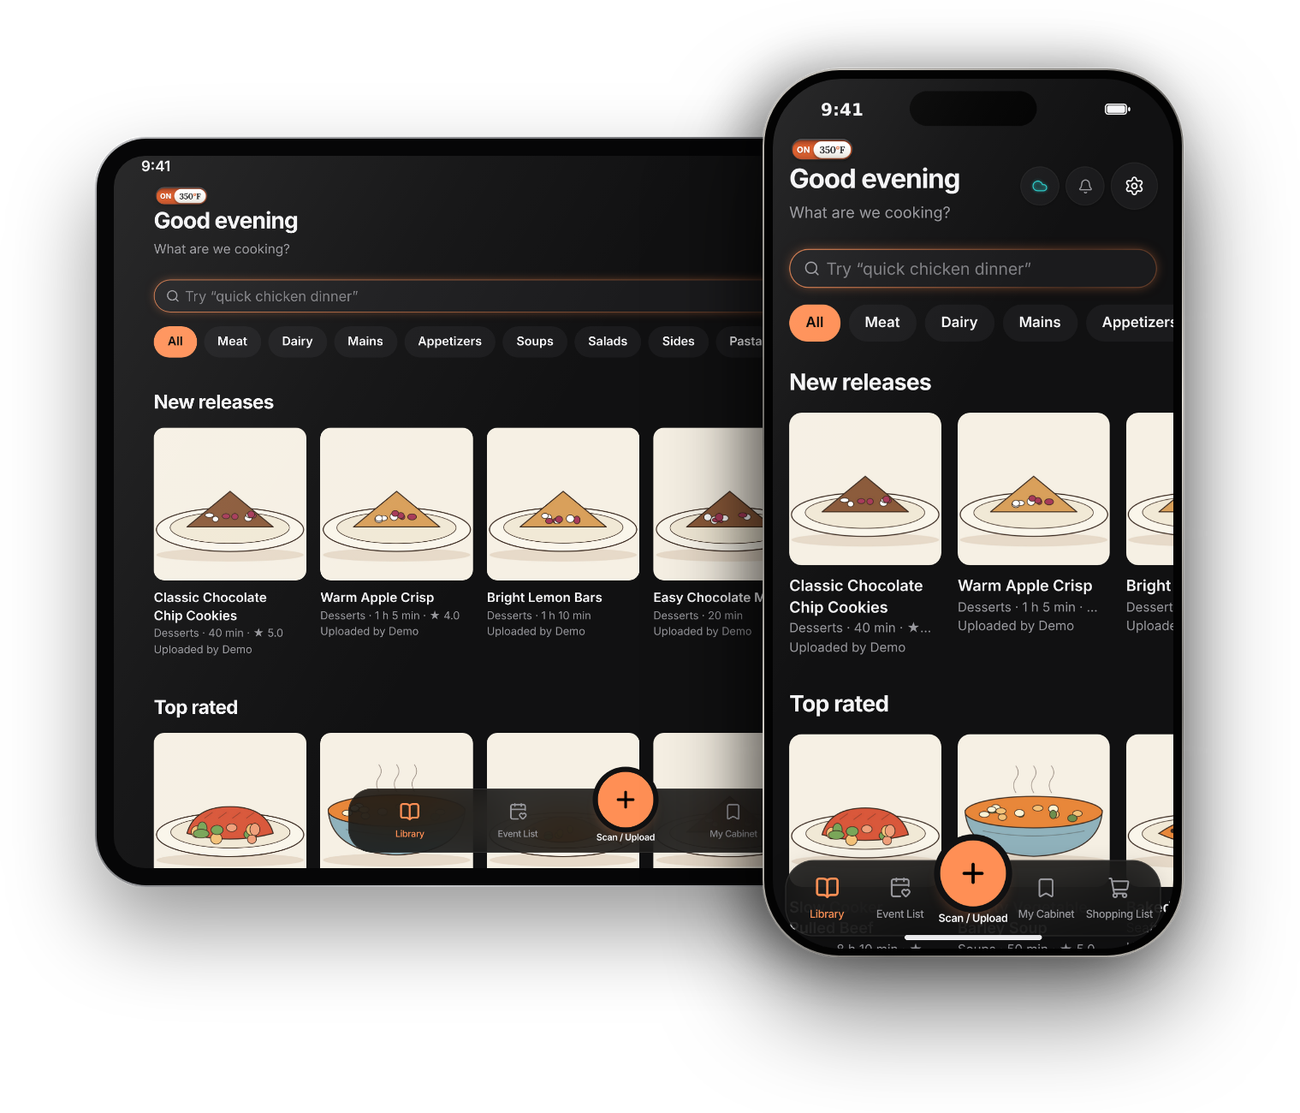
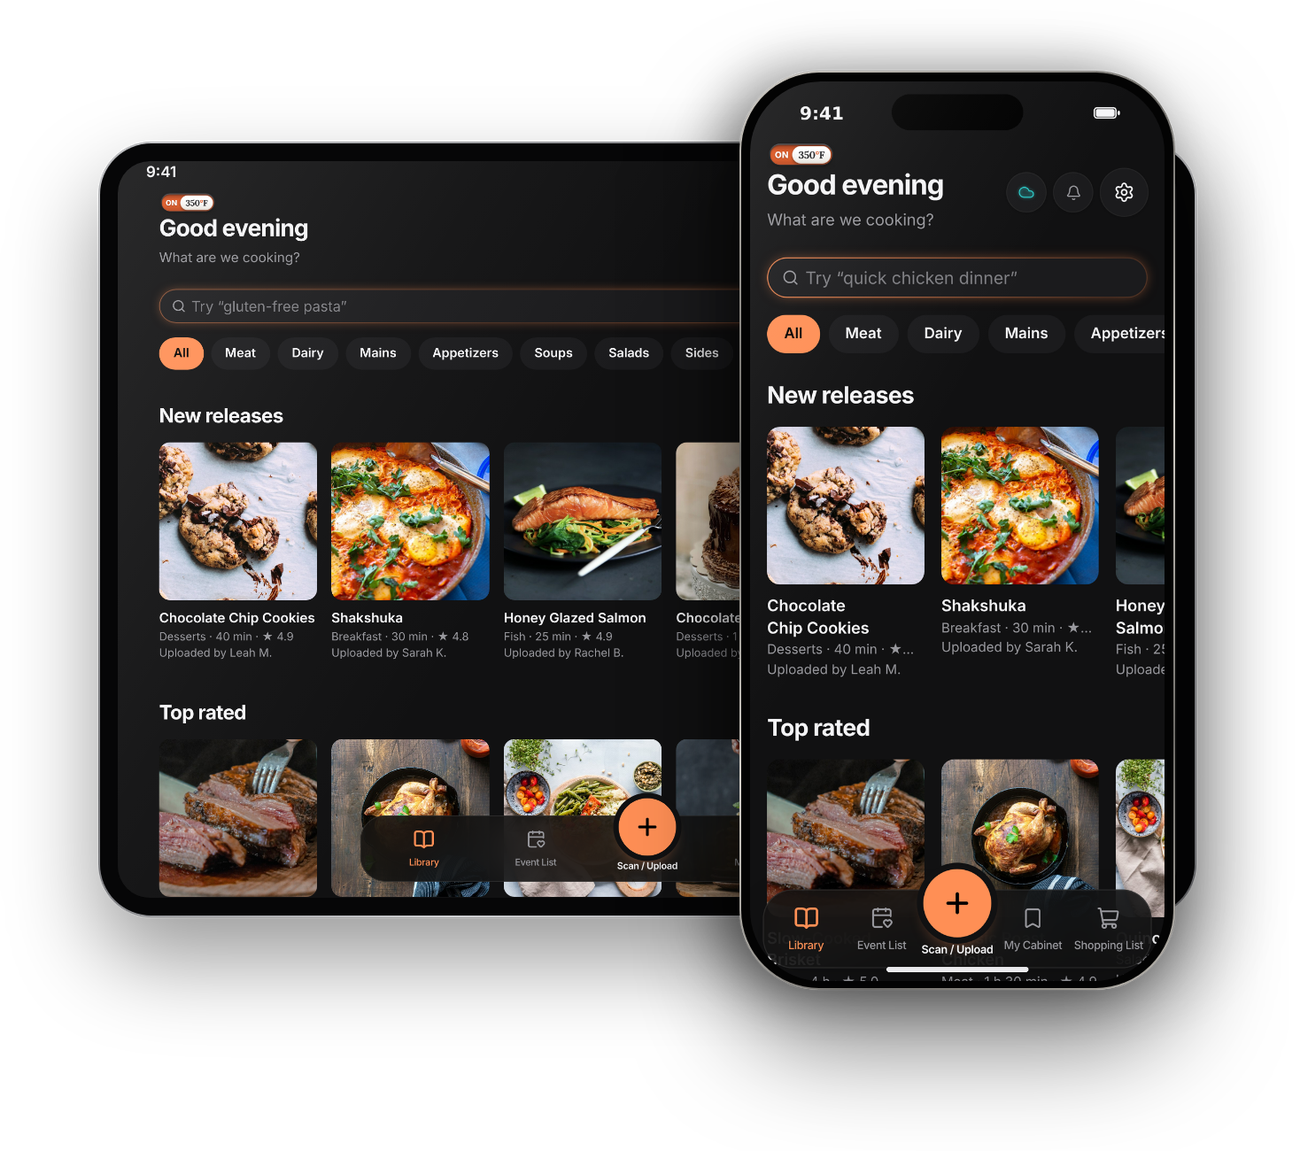
Website picture: real food photos, phone further over the iPad, pair moved right, faint orange glow (#114)
Food photos from Unsplash (free to use under the Unsplash licence, no credit required).

Claude-Session: https://claude.ai/code/session_01ADXpCTEnMXBBp4mHBc7Y2V

diff --git a/on350-landing/site/styles.css b/on350-landing/site/styles.css
@@ -12,7 +12,7 @@
 }
 
 * { box-sizing: border-box; }
-html { scroll-behavior: smooth; -webkit-text-size-adjust: 100%; }
+html { scroll-behavior: smooth; -webkit-text-size-adjust: 100%; overflow-x: clip; }
 @media (prefers-reduced-motion: reduce) { html { scroll-behavior: auto; } }
 body {
   margin: 0;
@@ -67,7 +67,7 @@ p { margin: 0; }
 }
 
 /* Hero */
-.hero { max-width: 1200px; margin: 0 auto; padding: 72px 24px 96px; overflow-x: clip; display: grid; grid-template-columns: 1.15fr 0.85fr; gap: 56px; align-items: center; }
+.hero { max-width: 1200px; margin: 0 auto; padding: 72px 24px 96px; display: grid; grid-template-columns: 1.15fr 0.85fr; gap: 56px; align-items: center; }
 .hero h1 { font-size: clamp(42px, 6vw, 72px); font-weight: 800; letter-spacing: -0.04em; line-height: 1.02; }
 .cta-row { margin-top: 32px; display: flex; flex-wrap: wrap; gap: 12px; }
 .chips { list-style: none; margin: 40px 0 0; padding: 0; display: grid; grid-template-columns: repeat(auto-fit, minmax(160px, 1fr)); gap: 12px; max-width: 40rem; }
@@ -76,8 +76,9 @@ p { margin: 0; }
 .hero-phone { display: flex; justify-content: center; }
 .phone { width: 320px; max-width: 100%; aspect-ratio: 390 / 844; border-radius: 44px; overflow: hidden; box-shadow: 0 0 0 8px #2a2a2d, 0 0 0 9px rgba(255, 255, 255, 0.08), 0 40px 90px rgba(0, 0, 0, 0.6), 0 0 120px rgba(255, 143, 85, 0.18); }
 .phone img { width: 100%; height: 100%; object-fit: cover; object-position: top; }
-.devices { display: block; flex: none; width: min(640px, 120%); margin: 0 0 0 -22%; }
-.devices img { display: block; width: 100%; height: auto; }
+.devices { display: block; flex: none; width: min(640px, 120%); margin: 0 -6% 0 -14%; }
+@media (max-width: 1150px) { .devices { margin-left: -22%; } }
+.devices img { display: block; width: 100%; height: auto; filter: drop-shadow(0 0 60px rgba(255, 143, 85, 0.10)); }
 @media (max-width: 900px) {
   .hero { grid-template-columns: minmax(0, 1fr); padding-top: 48px; }
   .phone { width: 270px; }

diff --git a/on350-landing/site/index.html b/on350-landing/site/index.html
@@ -74,7 +74,7 @@
     <div class="hero-phone">
       <picture class="devices">
         <source srcset="/img/app-devices.webp" type="image/webp">
-        <img src="/img/app-devices.png" alt="On350 on a phone and an iPad: shelves of new, top-rated and main-course recipes, with the bottom bar for the library, events, scanning, the cabinet and the shopping list" width="1300" height="1113" fetchpriority="high">
+        <img src="/img/app-devices.png" alt="On350 on a phone and an iPad: shelves of new, top-rated and main-course recipes, with the bottom bar for the library, events, scanning, the cabinet and the shopping list" width="1300" height="1151" fetchpriority="high">
       </picture>
     </div>
   </section>
